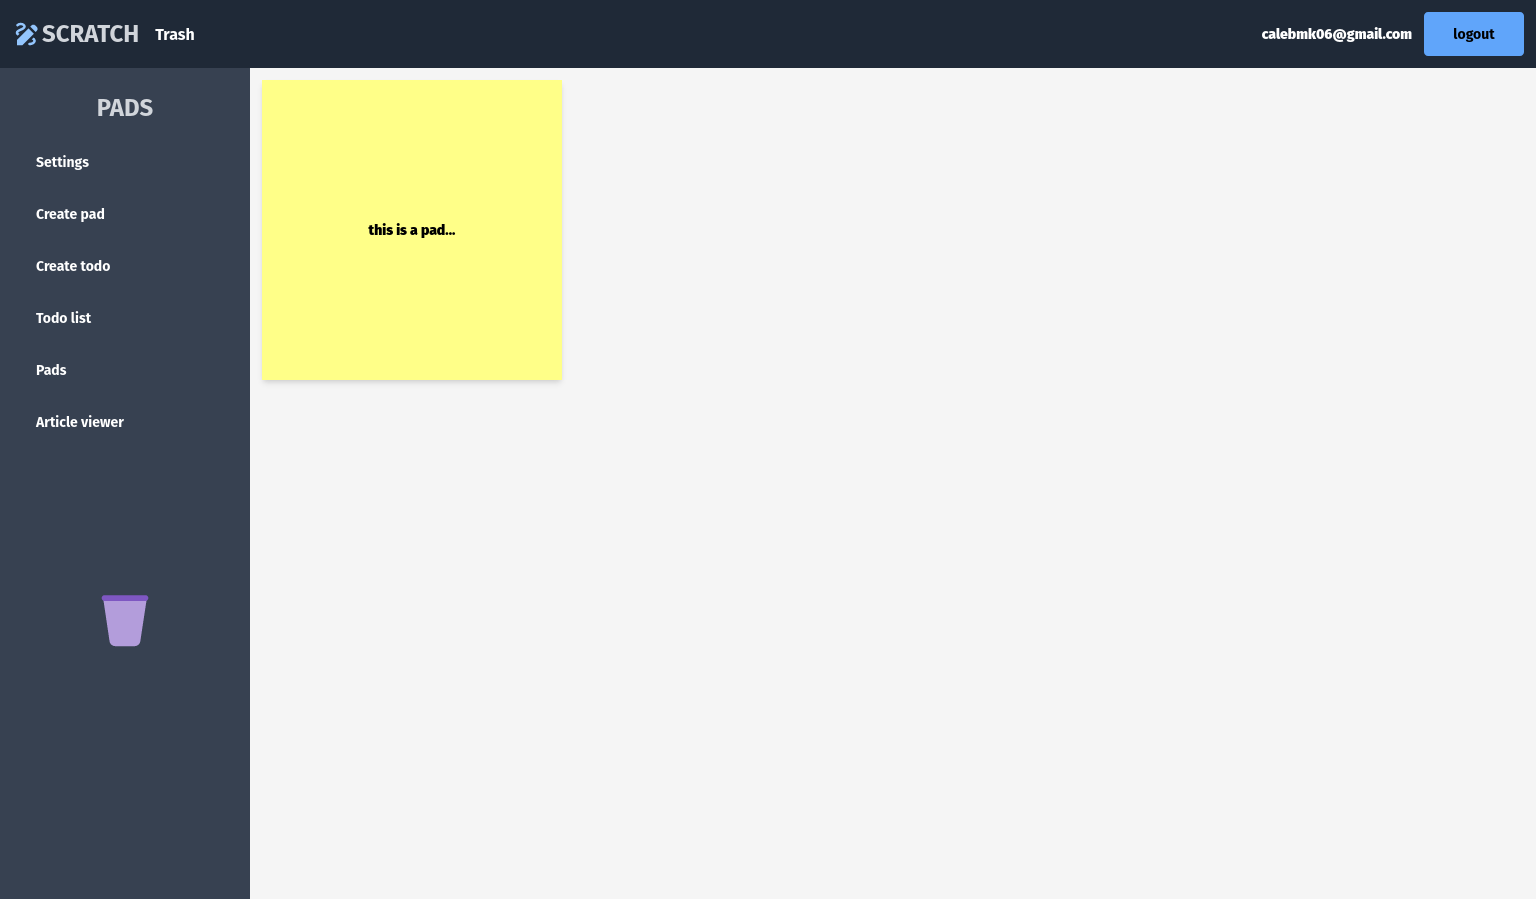
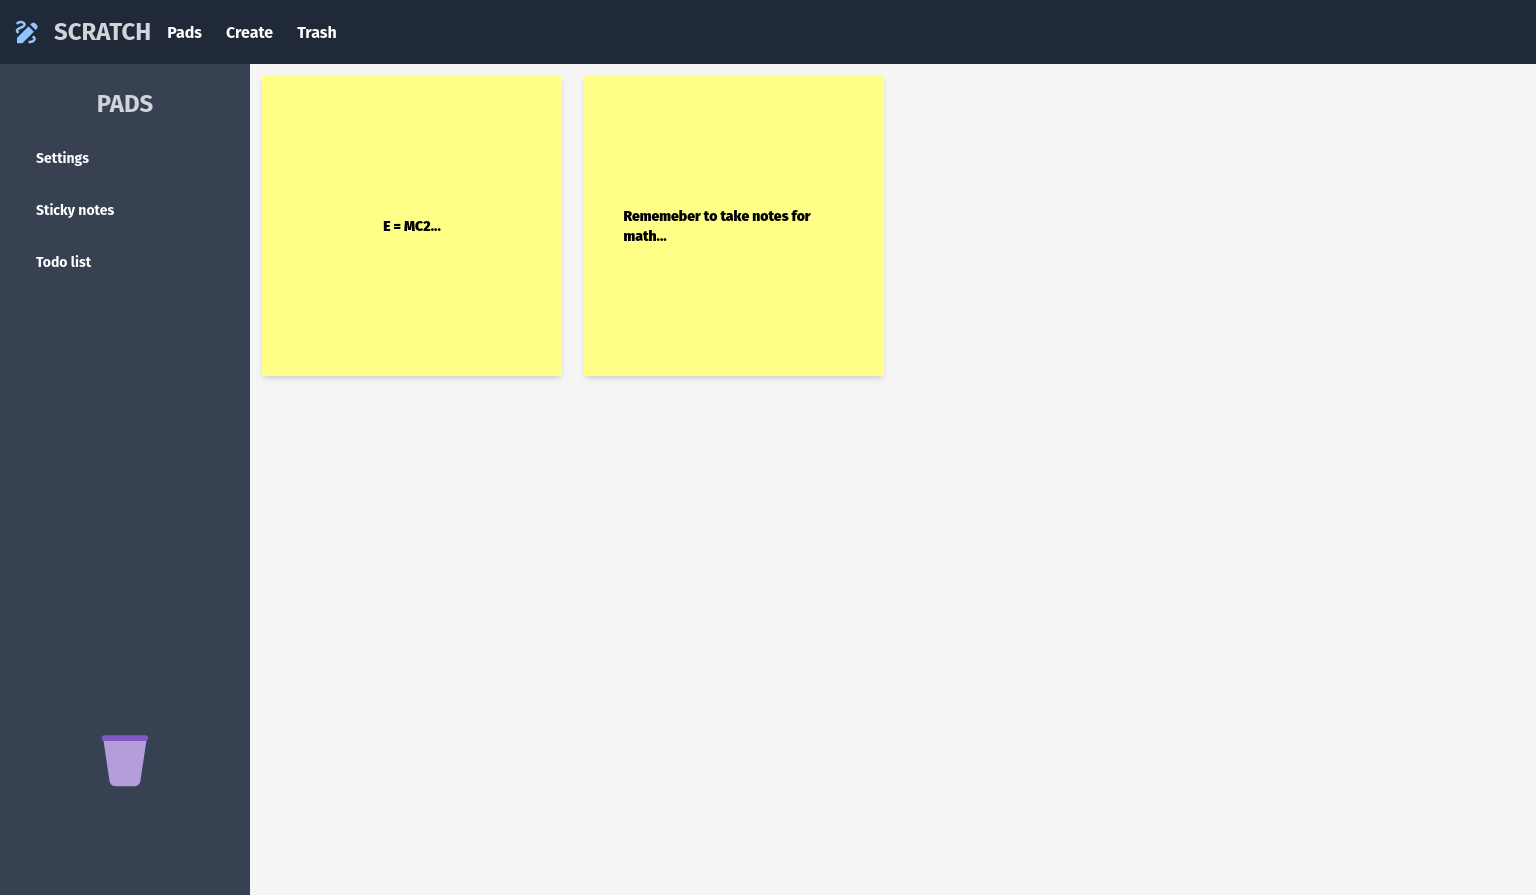
Revert "drawing & fixes"
This reverts commit 6fdf8d6a603da6bcc666f693b33d33b7b493dd02.

diff --git a/frontend/pages/index.tsx b/frontend/pages/index.tsx
@@ -1,12 +1,12 @@
 import { useRouter } from "next/router";
 import { FcGoogle } from "react-icons/fc";
 import Button from "../components/Button";
+import Card from "../components/Card";
 import Message from "../components/Message";
 import { useUser } from "../hooks/useUser";
 import Image from "next/image";
 import LandingPageImageOne from "../images/landing-page-image-one.png";
 import { MdDraw } from "react-icons/md";
-import { motion } from "framer-motion";
 
 const Index = () => {
   const { loginWithGoogle, error } = useUser();
@@ -22,37 +22,25 @@ const Index = () => {
   }
 
   return (
-    <div className="flex flex-col gap-6 mt-24 m-auto w-[1000px]">
-      <motion.div
-        animate={{
-          scale: [1, 1.5, 1.5, 1, 1],
-          rotate: [0, 0, 180, 180, 0],
-          borderRadius: ["0%", "0%", "50%", "50%", "0%"],
-        }}
-        transition={{
-          duration: 2,
-          ease: "easeInOut",
-          times: [0, 0.2, 0.5, 0.8, 1],
-          repeat: null,
-          repeatDelay: 1,
-        }}
-      >
-        <MdDraw fontSize="200px" className="m-auto text-blue-400" />
-      </motion.div>
+    <div className="flex flex-col gap-6 m-auto w-[1000px]">
+      <MdDraw fontSize="200px" className="m-auto text-blue-400" />
       <h1 className="font-bold text-center text-5xl text-gray-500 mb-6">
         Productivity all starting with a simple sticky note.
       </h1>
+      <Image
+        src={LandingPageImageOne}
+        className="w-full h-[600px] shadow-lg rounded"
+      />
       <div className="text-center flex flex-col">
+        <h1 className="font-bold text-center text-3xl text-gray-500 mb-6">
+          Login With Google
+        </h1>
         <div className="m-auto mb-6">
           <Button color="blacked" onClick={() => login()}>
             <FcGoogle className="m-auto" fontSize="50px" />
           </Button>
         </div>
       </div>
-      <Image
-        src={LandingPageImageOne}
-        className="w-full h-[600px] shadow-lg rounded"
-      />
     </div>
   );
 };

diff --git a/frontend/components/TopNavigator/TopNavigator.tsx b/frontend/components/TopNavigator/TopNavigator.tsx
@@ -1,14 +1,11 @@
 import { useRouter } from "next/router";
-import React, { useEffect, useState } from "react";
+import React, { useEffect } from "react";
 import Logo from "../Logo";
 import NavigatorOption from "./NavigatorOption";
 import Button from "../Button";
 import { useUser } from "../../hooks/useUser";
-import { Menu, MenuItem } from "@mui/material";
 
 const TopNavigator: React.FC = () => {
-  const [menuOpen, setMenuOpen] = useState(false);
-  const [anchorEl, setAnchorEl] = React.useState<null | HTMLElement>(null);
   const { logout, user } = useUser();
   const router = useRouter();
 
@@ -24,34 +21,10 @@ const TopNavigator: React.FC = () => {
         <NavigatorOption name="Trash" />
       </div>
       <div className="flex flex-row items-center gap-3">
-        <div
-          className="cursor-pointer"
-          onClick={(e: React.MouseEvent<HTMLElement>) => {
-            setAnchorEl(e.currentTarget);
-            setMenuOpen(true);
-          }}
-        >
-          <p className="font-black text-white text-sm">{user.email}</p>
-        </div>
-        <Menu
-          className="mt-8"
-          open={menuOpen}
-          onClose={() => {
-            setMenuOpen(false);
-            setAnchorEl(null);
-          }}
-          anchorOrigin={{
-            vertical: "top",
-            horizontal: "right",
-          }}
-          transformOrigin={{
-            vertical: "top",
-            horizontal: "right",
-          }}
-        >
-          <MenuItem>Profile Settings</MenuItem>
-          <MenuItem onClick={logoutCurrentUser}>Logout</MenuItem>
-        </Menu>
+        <p className="font-black text-white text-sm">{user.email}</p>
+        <Button color="primary" onClick={logoutCurrentUser}>
+          logout
+        </Button>
       </div>
     </nav>
   ) : (

diff --git a/frontend/components/Article/Article.tsx b/frontend/components/Article/Article.tsx
@@ -4,19 +4,14 @@ import { ArticleProps } from "../../types";
 
 const Article: React.FC<ArticleProps> = ({ article }) => {
   return (
-    <div className="flex flex-col gap-6 rounded border border-gray-300 h-[500px] mb-3">
-      <img src={article?.urlToImage} className="w-full h-[200px]" />
-      <div className="p-6">
-        <a
-          href={`${article?.url}`}
-          className="font-black text-2xl text-decoration-none underline"
-        >
-          {article?.title}
-        </a>
-        <p className="text-sm font-light text-gray-400">
-          {article?.description.slice(0, 200)}...
-        </p>
-      </div>
+    <div className="flex flex-col gap-6 h-[300px] p-10 rounded border border-gray-300 bg-white">
+      <a
+        href={`${article?.url}`}
+        className="font-black text-2xl text-decoration-none underline"
+      >
+        {article?.title}
+      </a>
+      <p className="text-sm font-light text-gray-400">{article?.source}</p>
     </div>
   );
 };

diff --git a/frontend/context/NewsContext.tsx b/frontend/context/NewsContext.tsx
@@ -8,12 +8,18 @@ export const NewsProvider: React.FC<NewsProviderProps> = ({ children }) => {
   const [articles, setArticles] = useState();
   const [error, setError] = useState("");
 
-  const fetchArticles = async (query: string) => {
+  const fetchArticles = async () => {
     try {
-      const response = await axios.get(
-        `https://newsapi.org/v2/everything?q=${query}&apiKey=${process.env.NEWS_KEY}`
-      );
-      setArticles(response.data.articles.slice(0, 6));
+      const response = await axios.request({
+        method: "GET",
+        url: "https://global-news-api.p.rapidapi.com/news/news24/election",
+        headers: {
+          "X-RapidAPI-Key":
+            "7e13738764mshf269b65b399187fp1b41e2jsnbdf68f29276b",
+          "X-RapidAPI-Host": "global-news-api.p.rapidapi.com",
+        },
+      });
+      setArticles(response.data.articles);
     } catch (error: any) {
       setError(error.message);
     }

diff --git a/frontend/types/index.ts b/frontend/types/index.ts
@@ -100,15 +100,14 @@ export interface TodoProps {
 
 export interface IArticle {
   title: string;
-  description: string;
   url: string;
-  urlToImage: string;
+  source: string;
 }
 
 export interface NewsContextProps {
-  articles: IArticle[];
+  articles: IArticle[],
   error: string;
-  fetchArticles: (query: string) => void;
+  fetchArticles: () => void;
 }
 
 export interface NewsProviderProps {
@@ -117,4 +116,17 @@ export interface NewsProviderProps {
 
 export interface ArticleProps {
   article: IArticle;
+}
+
+export interface DrawingContextProps {
+  lines: any;
+  isDrawing: MutableRefObject<boolean>;
+  handleMouseDown: (e: any) => void;
+  handleMouseMove: (e: any) => void;
+  handleMouseUp: () => void;
+  clearBoard: () => void;
+}
+
+export interface DrawingProviderProps {
+  children: React.ReactNode;
 }

diff --git a/frontend/components/Article/Articles.tsx b/frontend/components/Article/Articles.tsx
@@ -1,18 +1,19 @@
-import React, { useEffect, useState } from "react";
+import React, { useEffect } from "react";
 import { useArticle } from "../../hooks/useArticle";
-import Button from "../Button";
-import Input from "../Input";
 import Article from "./Article";
 
-const Articles: React.FC = () => {
-  const { articles } = useArticle();
+const Articles = () => {
+  const { articles, fetchArticles } = useArticle();
+
+  useEffect(() => {
+    fetchArticles();
+  }, []);
 
   return (
     <>
-      {articles &&
-        articles.map((article, index) => (
-          <Article key={index} article={article} />
-        ))}
+      {articles && articles.map((article, index) => (
+        <Article key={index} article={article} />
+      ))}
     </>
   );
 };

diff --git a/frontend/components/Pads/Pad.tsx b/frontend/components/Pads/Pad.tsx
@@ -1,4 +1,4 @@
-import React, { useRef } from "react";
+import React from "react";
 import { useDrag } from "react-dnd";
 import { PadProps } from "../../types";
 import { usePad } from "../../hooks/usePad";
@@ -26,12 +26,7 @@ const Pad: React.FC<PadProps> = ({ pad }) => {
   );
 
   return (
-    <motion.div
-      initial={{ opacity: 0 }}
-      animate={{ opacity: 1 }}
-      whileHover={{ scale: 1.1 }}
-      whileTap={{ scale: 1.03 }}
-    >
+    <motion.div initial={{ opacity: 0 }} animate={{ opacity: 1 }}>
       <div
         ref={dragRef}
         style={{ opacity }}

diff --git a/frontend/components/Todos/Todo.tsx b/frontend/components/Todos/Todo.tsx
@@ -15,7 +15,7 @@ const Todo: React.FC<TodoProps> = ({ todo }) => {
 
   return (
     <motion.div initial={{ opacity: 0 }} animate={{ opacity: 1 }}>
-      <div className="flex flex-row justify-between items-center shadow-md rounded w-full bg-red-300 p-3 h-[50px]">
+      <div className="flex flex-row justify-between items-center shadow-md rounded w-full bg-white p-3 h-[50px]">
         <div className="flex flex-row items-center gap-3">
           <div
             onClick={checkTodo}

diff --git a/frontend/components/SideNavigator/SideNavigator.tsx b/frontend/components/SideNavigator/SideNavigator.tsx
@@ -42,6 +42,10 @@ const SideNavigator = () => {
         name="News search"
         onNavigate={() => router.push("/news-search")}
       />
+      <SideNavigatorOption
+        name="Drawing board"
+        onNavigate={() => router.push("/draw")}
+      />
       <div ref={drop} className="relative h-[200px]">
         <FcEmptyTrash fontSize="70px" className="absolute bottom-0 w-full" />
       </div>

diff --git a/frontend/components/SideNavigator/SideNavigatorOption.tsx b/frontend/components/SideNavigator/SideNavigatorOption.tsx
@@ -10,7 +10,7 @@ const SideNavigatorOption: React.FC<SideNavigatorOptionProps> = ({
   onNavigate,
 }) => {
   return (
-    <div className="w-full p-3 rounded hover:bg-gray-800 cursor-pointer" onClick={onNavigate}>
+    <div className="w-full p-3 rounded hover:bg-gray-800" onClick={onNavigate}>
       <h1 className="font-bold text-sm text-white">{name}</h1>
     </div>
   );

diff --git a/frontend/components/TopNavigator/NavigatorOption.tsx b/frontend/components/TopNavigator/NavigatorOption.tsx
@@ -11,7 +11,7 @@ const NavigatorOption: React.FC<NavigatorOptionProps> = ({
 }) => {
   return (
     <div
-      className="p-2 rounded hover:bg-blue-900 cursor-pointer"
+      className="p-2 rounded hover:bg-gray-900"
       onClick={onNavigate}
     >
       <h1 className="font-bold text-white">{name}</h1>

diff --git a/frontend/pages/article-viewer.tsx b/frontend/pages/article-viewer.tsx
@@ -1,0 +1,12 @@
+import MainGrid from "../components/MainGrid";
+import Articles from "../components/Article/Articles";
+
+const ArticleViewerPage = () => {
+  return (
+    <MainGrid>
+      <Articles />
+    </MainGrid>
+  );
+};
+
+export default ArticleViewerPage;
